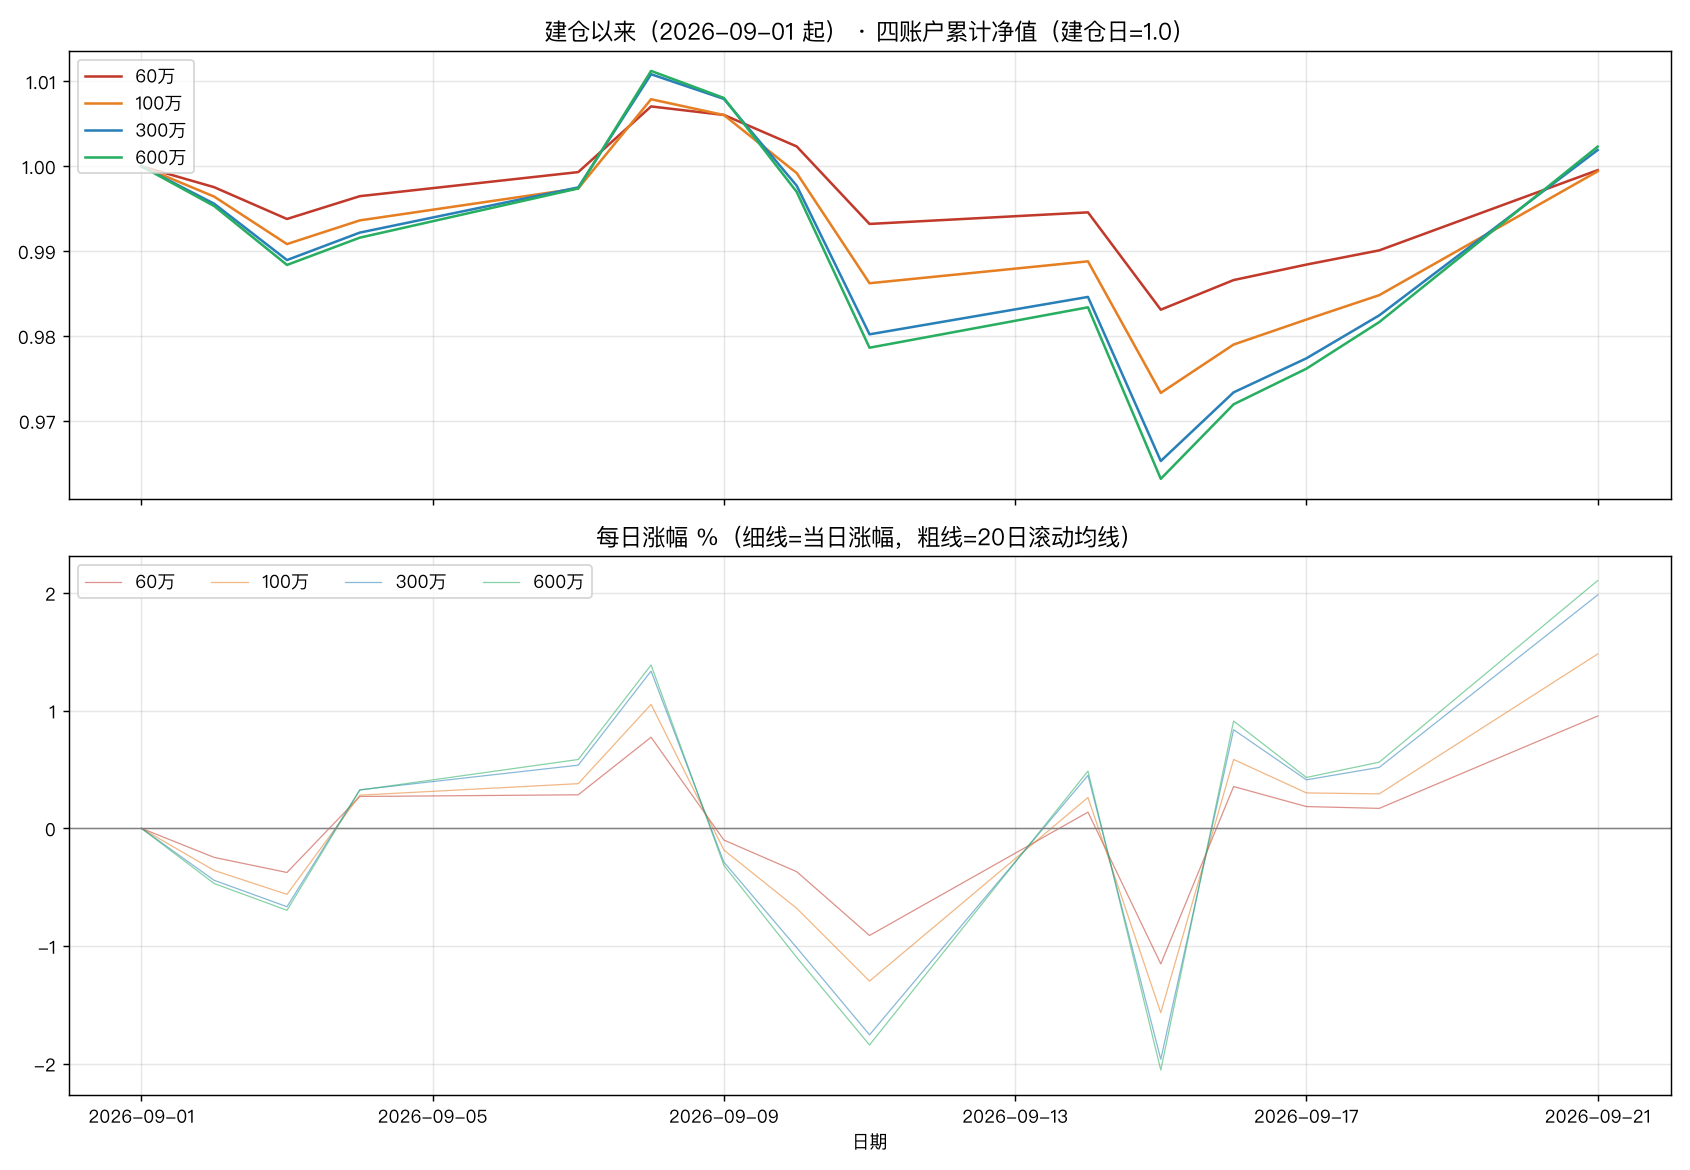
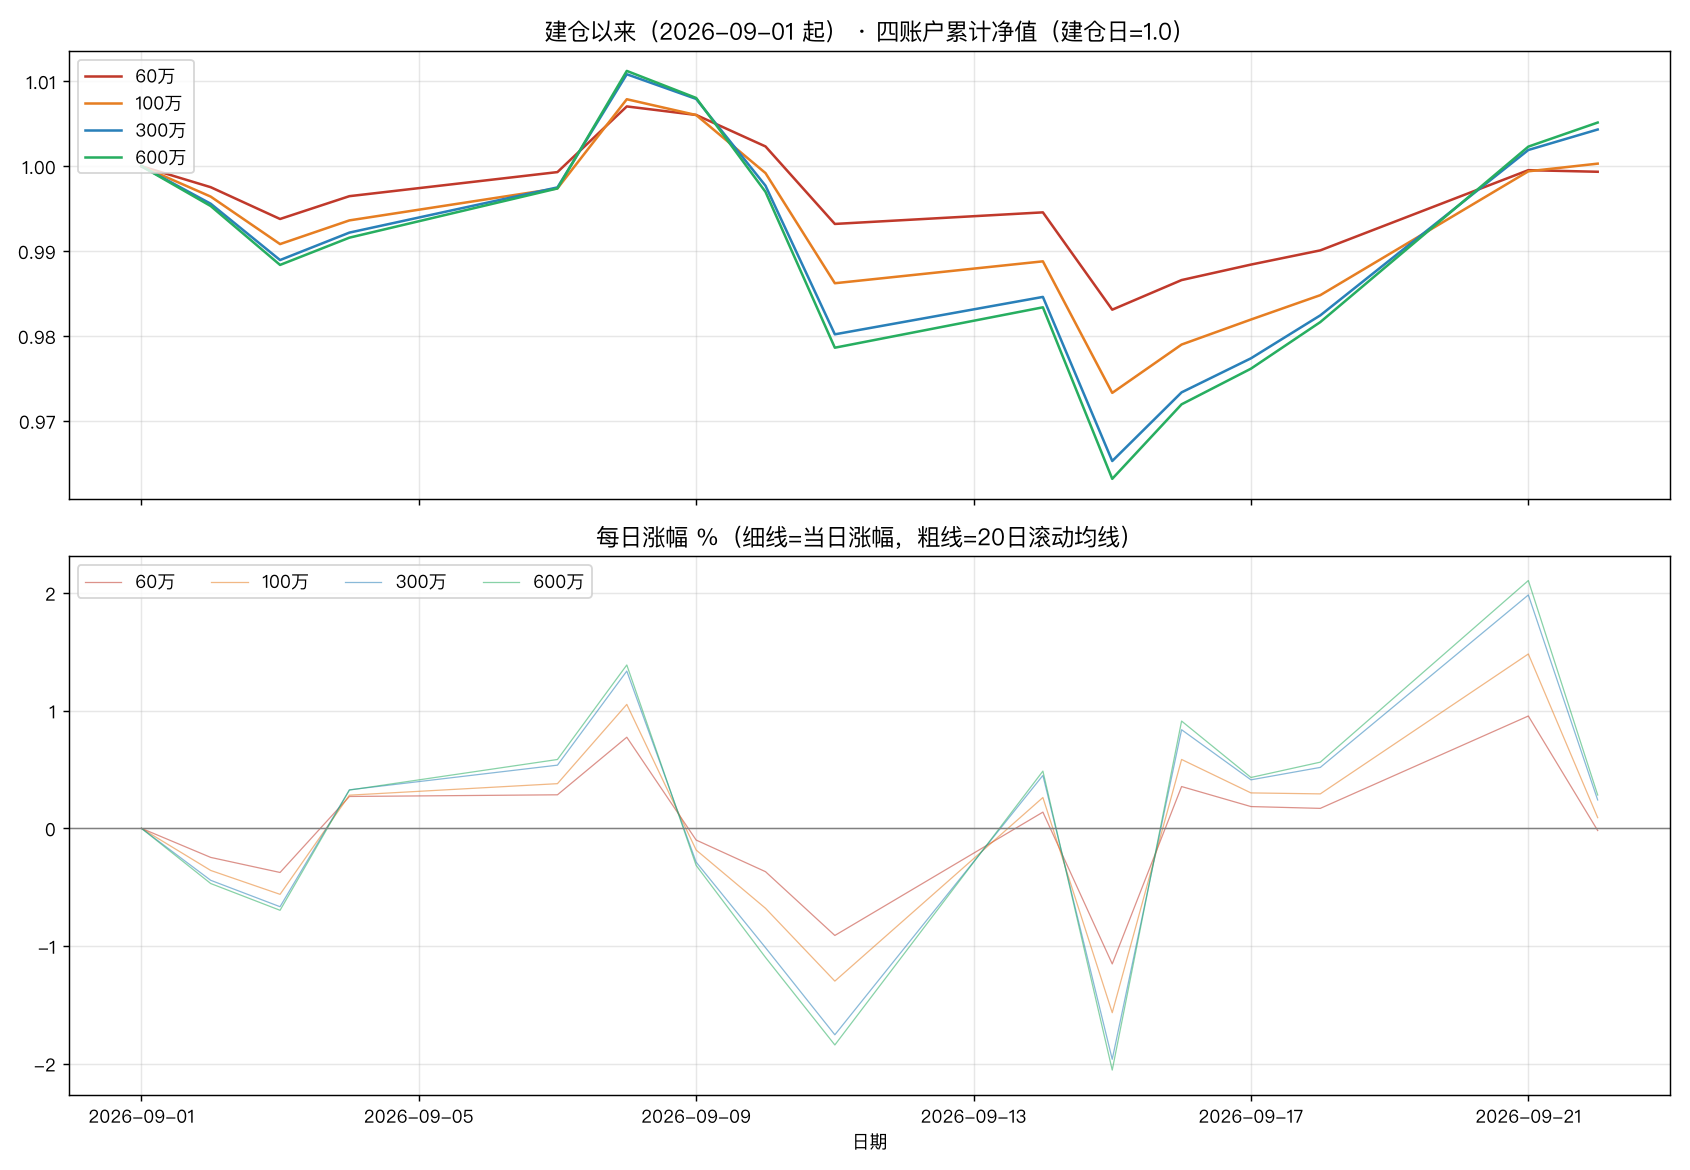
数据工程: 退市股真实价/分红补抓脚本入生产链 + 行业补全 + 运营刷新
- scripts/fetch_delisted_raw_price.py: 退市股真实价补抓(腾讯不复权接口, 215/217)
- scripts/fetch_delisted_dividends.py: 退市股分红补抓(同花顺history_dividend, 290/292)
- industry_full.parquet: 补 601123新股B08 + 退市股292行业(在市100%, 退市290/292)
- output 运营产物: 四账户 mark 刷新至 2026-09-22

diff --git a/scripts/fetch_delisted_raw_price.py b/scripts/fetch_delisted_raw_price.py
@@ -1,0 +1,118 @@
+#!/usr/bin/env python
+# -*- coding: utf-8 -*-
+"""退市股真实价(不复权)补抓 —— 分批写盘 + 断点续传 + 东财限频退避。
+
+池: stock_basic 主板(sh.60/sz.00)退市股 − raw_close_delisted.parquet 已有 code。
+源: akshare stock_zh_a_hist(东财, adjust="") 不复权 = 历史真实价。
+写: 每 BATCH 只原子写盘(读现有+concat), 失败重试 3 次退避递增。
+用法: python tmp/fetch_raw_close_delisted.py [--limit N]
+"""
+
+from __future__ import annotations
+
+import signal
+import sys
+import time
+from pathlib import Path
+
+import pandas as pd
+
+sys.path.insert(0, "src")
+from quant_trading_01.data_io import stock_basic
+
+OUT = Path("data/round2/raw_close_delisted.parquet")
+PAUSE = 0.8
+BATCH = 40
+
+
+def main() -> None:
+    sb = stock_basic()
+    od = sb["outDate"].astype(str).str.strip()
+    delisted = ~od.isin(["", "NaT", "nan", "None"])
+    mb = sb["code"].str.startswith(("sh.60", "sz.00"))
+    sel = sb[delisted & mb]
+    # 跳过研究窗口外退市(2013 前): 东财对超老退市股接口异常且本就不需要
+    sel = sel[pd.to_datetime(sel["outDate"]) >= pd.Timestamp("2013-01-01")]
+    done = set(pd.read_parquet(OUT)["code"]) if OUT.exists() else set()
+    todo = sel[~sel["code"].isin(done)]
+    print(
+        f"窗口内退市股 {len(sel)}, 已有真实价 {len(done)}, 待抓 {len(todo)}", flush=True
+    )
+    if "--limit" in sys.argv:
+        todo = todo.head(int(sys.argv[sys.argv.index("--limit") + 1]))
+
+    import akshare as ak
+
+    rows: list[pd.DataFrame] = []
+    n_ok = n_err = 0
+    t0 = time.time()
+    for i, (_, r) in enumerate(todo.iterrows(), 1):
+        c, out = r["code"], pd.Timestamp(r["outDate"])
+        end = min(out, pd.Timestamp.today()).strftime("%Y%m%d")
+        ok = False
+        for attempt in range(3):
+            try:
+                # 腾讯接口: 对退市股稳定可用(东财限频不稳定), 返回不复权真实价
+                signal.alarm(60)  # 单请求超时保护(腾讯偶发挂起)
+                df = ak.stock_zh_a_hist_tx(
+                    symbol=c.split(".")[1],
+                    start_date="20120601",
+                    end_date=end,
+                    adjust="",
+                )
+                signal.alarm(0)
+                ok = True
+                break
+            except Exception:
+                signal.alarm(0)
+                time.sleep(4 * (attempt + 1))
+        if not ok:
+            n_err += 1
+            print(f"  ERR {c} {r['code_name']}", flush=True)
+            continue
+        if df is not None and len(df):
+            rows.append(
+                pd.DataFrame(
+                    {
+                        "date": pd.to_datetime(df["date"]),
+                        "code": c,
+                        "raw_close": df["close"].astype(float),
+                    }
+                )
+            )
+            n_ok += 1
+        if i % BATCH == 0 and rows:
+            prev = pd.read_parquet(OUT) if OUT.exists() else None
+            all_df = pd.concat(
+                [prev, pd.concat(rows, ignore_index=True)], ignore_index=True
+            )
+            all_df = all_df.drop_duplicates(subset=["date", "code"]).sort_values(
+                ["code", "date"]
+            )
+            tmp = OUT.with_suffix(".parquet.tmp")
+            all_df.to_parquet(tmp, index=False)
+            tmp.replace(OUT)
+            rows = []
+            print(
+                f"  [{i}/{len(todo)}] 累计 {len(all_df)} 行/{all_df['code'].nunique()} 只, "
+                f"失败 {n_err}, 耗时 {time.time() - t0:.0f}s",
+                flush=True,
+            )
+        time.sleep(PAUSE)
+
+    if rows:
+        prev = pd.read_parquet(OUT) if OUT.exists() else None
+        all_df = pd.concat(
+            [prev, pd.concat(rows, ignore_index=True)], ignore_index=True
+        )
+        all_df = all_df.drop_duplicates(subset=["date", "code"]).sort_values(
+            ["code", "date"]
+        )
+        tmp = OUT.with_suffix(".parquet.tmp")
+        all_df.to_parquet(tmp, index=False)
+        tmp.replace(OUT)
+    print(f"完成: 本次补 {n_ok}, 失败 {n_err}", flush=True)
+
+
+if __name__ == "__main__":
+    main()

diff --git a/scripts/fetch_delisted_dividends.py b/scripts/fetch_delisted_dividends.py
@@ -1,0 +1,117 @@
+#!/usr/bin/env python
+# -*- coding: utf-8 -*-
+"""退市股分红补抓 —— 推翻"退市分红不可得"结论(同花顺 history_dividend_detail 接口可用)。
+
+池: stock_basic 主板退市股 − dividends.parquet 已有 code。
+源: akshare stock_history_dividend_detail(同花顺, 含送股/转增/派息/进度/除权除息日)。
+映射: 仅收 进度=="实施"; date=除权除息日; cashBeforeTax=派息/10(每股);
+      stocksPs=(送股+转增)/10(每股); total_shares/eps=NaN(无东财列)。
+写: 并入 data/round2/dividends.parquet(读现有+concat+去重, 分批原子写)。
+用法: python tmp/fetch_delisted_dividends.py [--limit N]
+"""
+
+from __future__ import annotations
+
+import sys
+import time
+from pathlib import Path
+
+import pandas as pd
+
+sys.path.insert(0, "src")
+from quant_trading_01.data_io import stock_basic
+
+OUT = Path("data/round2/dividends.parquet")
+BATCH = 40
+
+
+def main() -> None:
+    sb = stock_basic()
+    od = sb["outDate"].astype(str).str.strip()
+    delisted = ~od.isin(["", "NaT", "nan", "None"])
+    mb = sb["code"].str.startswith(("sh.60", "sz.00"))
+    sel = sb[delisted & mb]
+    have = set(pd.read_parquet(OUT)["code"]) if OUT.exists() else set()
+    todo = sel[~sel["code"].isin(have)]
+    print(
+        f"主板退市 {len(sel)}, 已有分红 {len(have & set(sel['code']))}, 待抓 {len(todo)}",
+        flush=True,
+    )
+    if "--limit" in sys.argv:
+        todo = todo.head(int(sys.argv[sys.argv.index("--limit") + 1]))
+
+    import akshare as ak
+
+    rows: list[pd.DataFrame] = []
+    n_ok = n_err = 0
+    t0 = time.time()
+    for i, (_, r) in enumerate(todo.iterrows(), 1):
+        c = r["code"]
+        try:
+            df = ak.stock_history_dividend_detail(symbol=c.split(".")[1])
+        except Exception as e:
+            n_err += 1
+            print(
+                f"  ERR {c} {r['code_name']}: {type(e).__name__} {str(e)[:50]}",
+                flush=True,
+            )
+            continue
+        if df is None or len(df) == 0:
+            continue
+        df = df[df["进度"] == "实施"].copy()
+        if len(df) == 0:
+            continue
+        ex = pd.to_datetime(df["除权除息日"], errors="coerce")
+        out = pd.DataFrame(
+            {
+                "code": c,
+                "date": ex,
+                "cashBeforeTax": pd.to_numeric(df["派息"], errors="coerce") / 10.0,
+                "stocksPs": (
+                    pd.to_numeric(df["送股"], errors="coerce")
+                    + pd.to_numeric(df["转增"], errors="coerce")
+                )
+                / 10.0,
+                "total_shares": float("nan"),
+                "eps": float("nan"),
+            }
+        )
+        out = out.dropna(subset=["date"])
+        if len(out):
+            rows.append(out)
+            n_ok += 1
+        if i % BATCH == 0 and rows:
+            prev = pd.read_parquet(OUT) if OUT.exists() else None
+            all_df = pd.concat(
+                [prev, pd.concat(rows, ignore_index=True)], ignore_index=True
+            )
+            all_df = all_df.drop_duplicates(subset=["code", "date"]).sort_values(
+                ["code", "date"]
+            )
+            tmp = OUT.with_suffix(".parquet.tmp")
+            all_df.to_parquet(tmp, index=False)
+            tmp.replace(OUT)
+            rows = []
+            print(
+                f"  [{i}/{len(todo)}] 累计 {len(all_df)} 行/{all_df['code'].nunique()} 只, "
+                f"失败 {n_err}, 耗时 {time.time() - t0:.0f}s",
+                flush=True,
+            )
+        time.sleep(0.5)
+
+    if rows:
+        prev = pd.read_parquet(OUT) if OUT.exists() else None
+        all_df = pd.concat(
+            [prev, pd.concat(rows, ignore_index=True)], ignore_index=True
+        )
+        all_df = all_df.drop_duplicates(subset=["code", "date"]).sort_values(
+            ["code", "date"]
+        )
+        tmp = OUT.with_suffix(".parquet.tmp")
+        all_df.to_parquet(tmp, index=False)
+        tmp.replace(OUT)
+    print(f"完成: 本次补 {n_ok}, 失败 {n_err}", flush=True)
+
+
+if __name__ == "__main__":
+    main()
